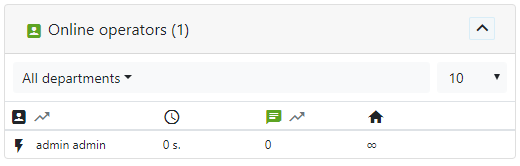
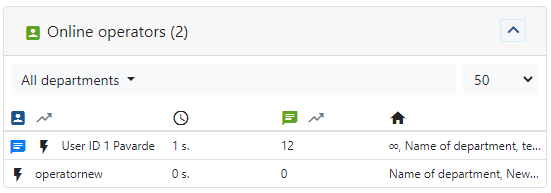
Group chat functions

diff --git a/docs/dashboard.md b/docs/dashboard.md
@@ -19,7 +19,7 @@ Default dashboard widgets. It's default look you should get once you login to ba
 
 ### Online operators
 
-![](/img/dashboard/operators-online.png)
+![](/img/dashboard/operators-online.png?v=2)
 
 #### Required configuration
 
@@ -48,9 +48,11 @@ If operator has permission
 
 He will be able to click on ![](/img/dashboard/online-icon.png) and change other operator status directly.
 
-In order to enable messaging other operators through the Online operators following module has to be enabled:
+In order to enable messaging other operators ![](/img/dashboard/start-chat-operator.png) through the Online operators following module has to be enabled:
 
 >'lhgroupchat', 'use'
+
+This is part of the `Group chats` functionality.
 
 ### Departments stats
 
@@ -198,7 +200,7 @@ In group chats operators sees 1 on 1 chats and public group chats.
 
 #### Required configuration
 
-For operator to see this widget he has to have
+For the operator to see this widget he has to have
 
 > 'lhgroupchat','use' 
 
